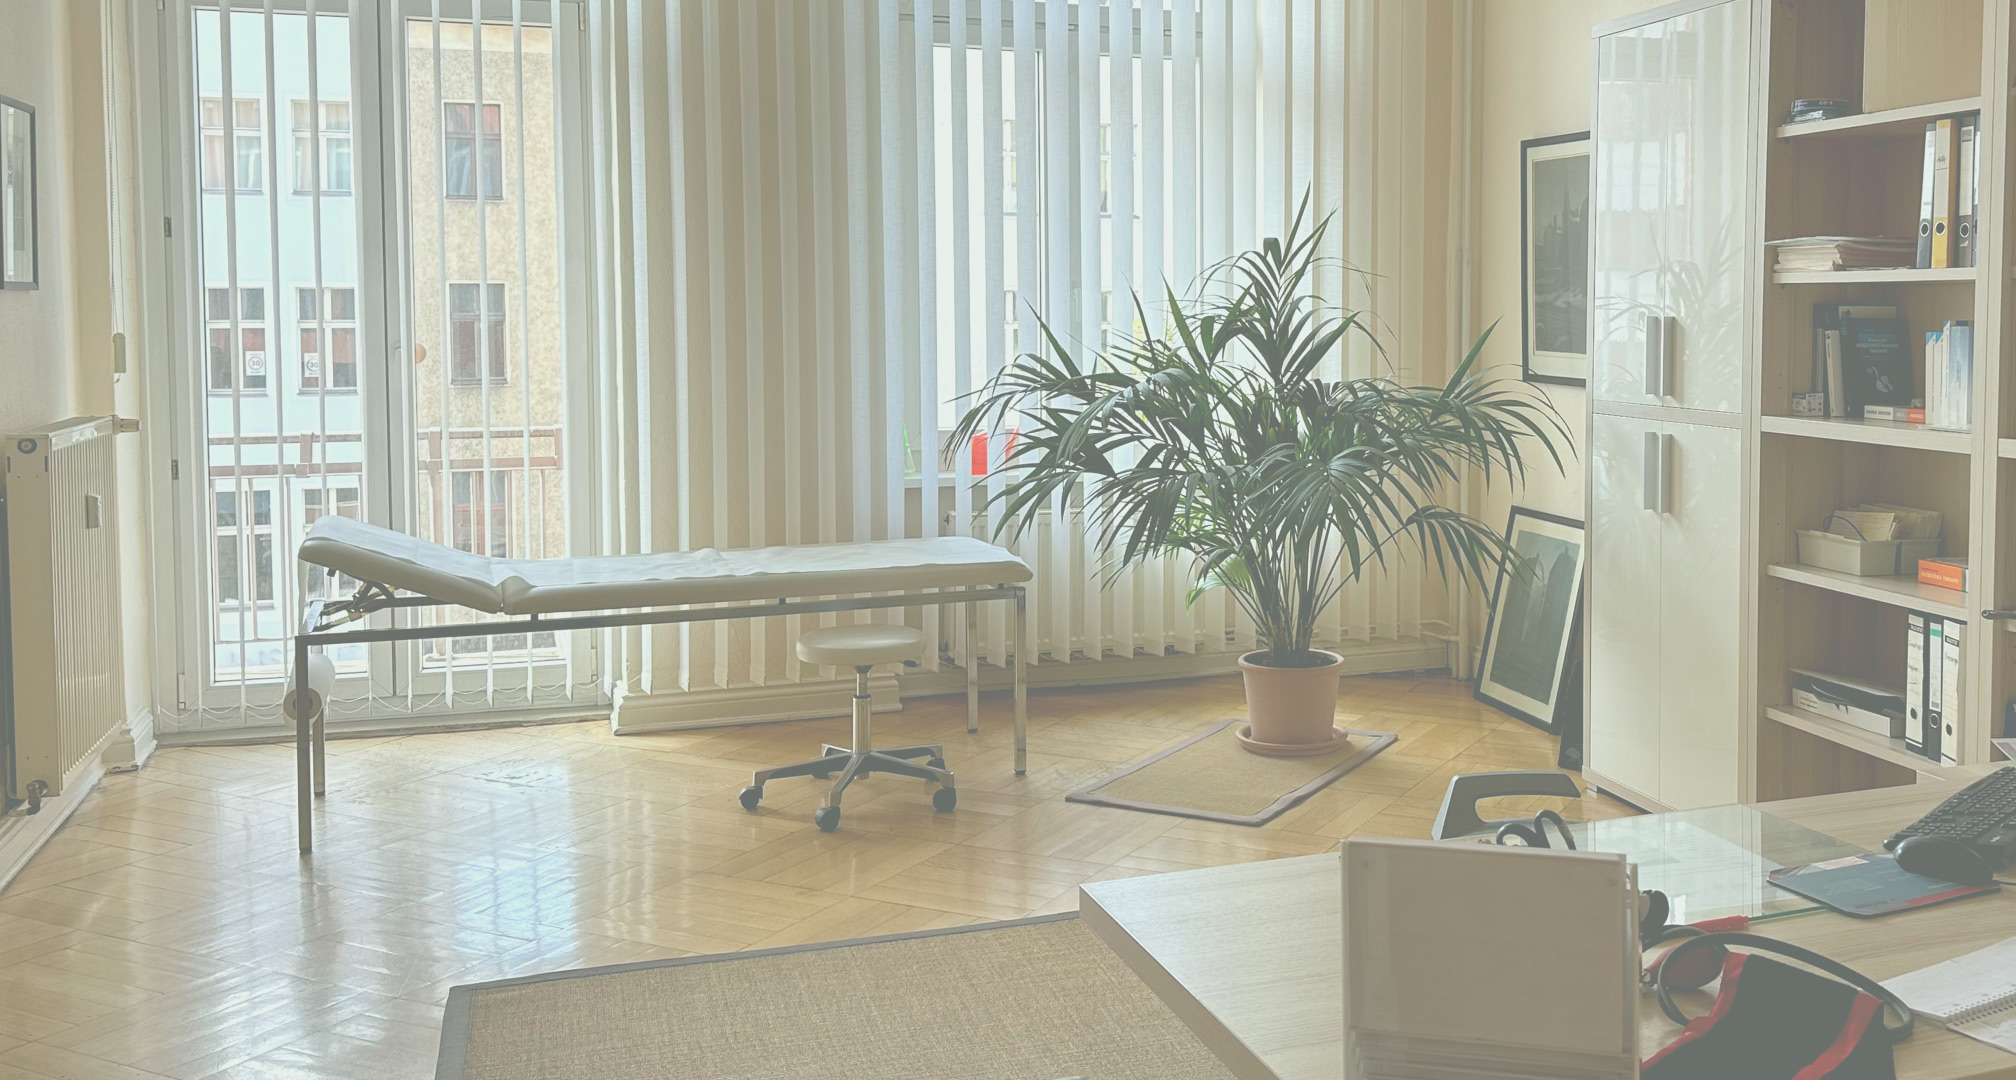
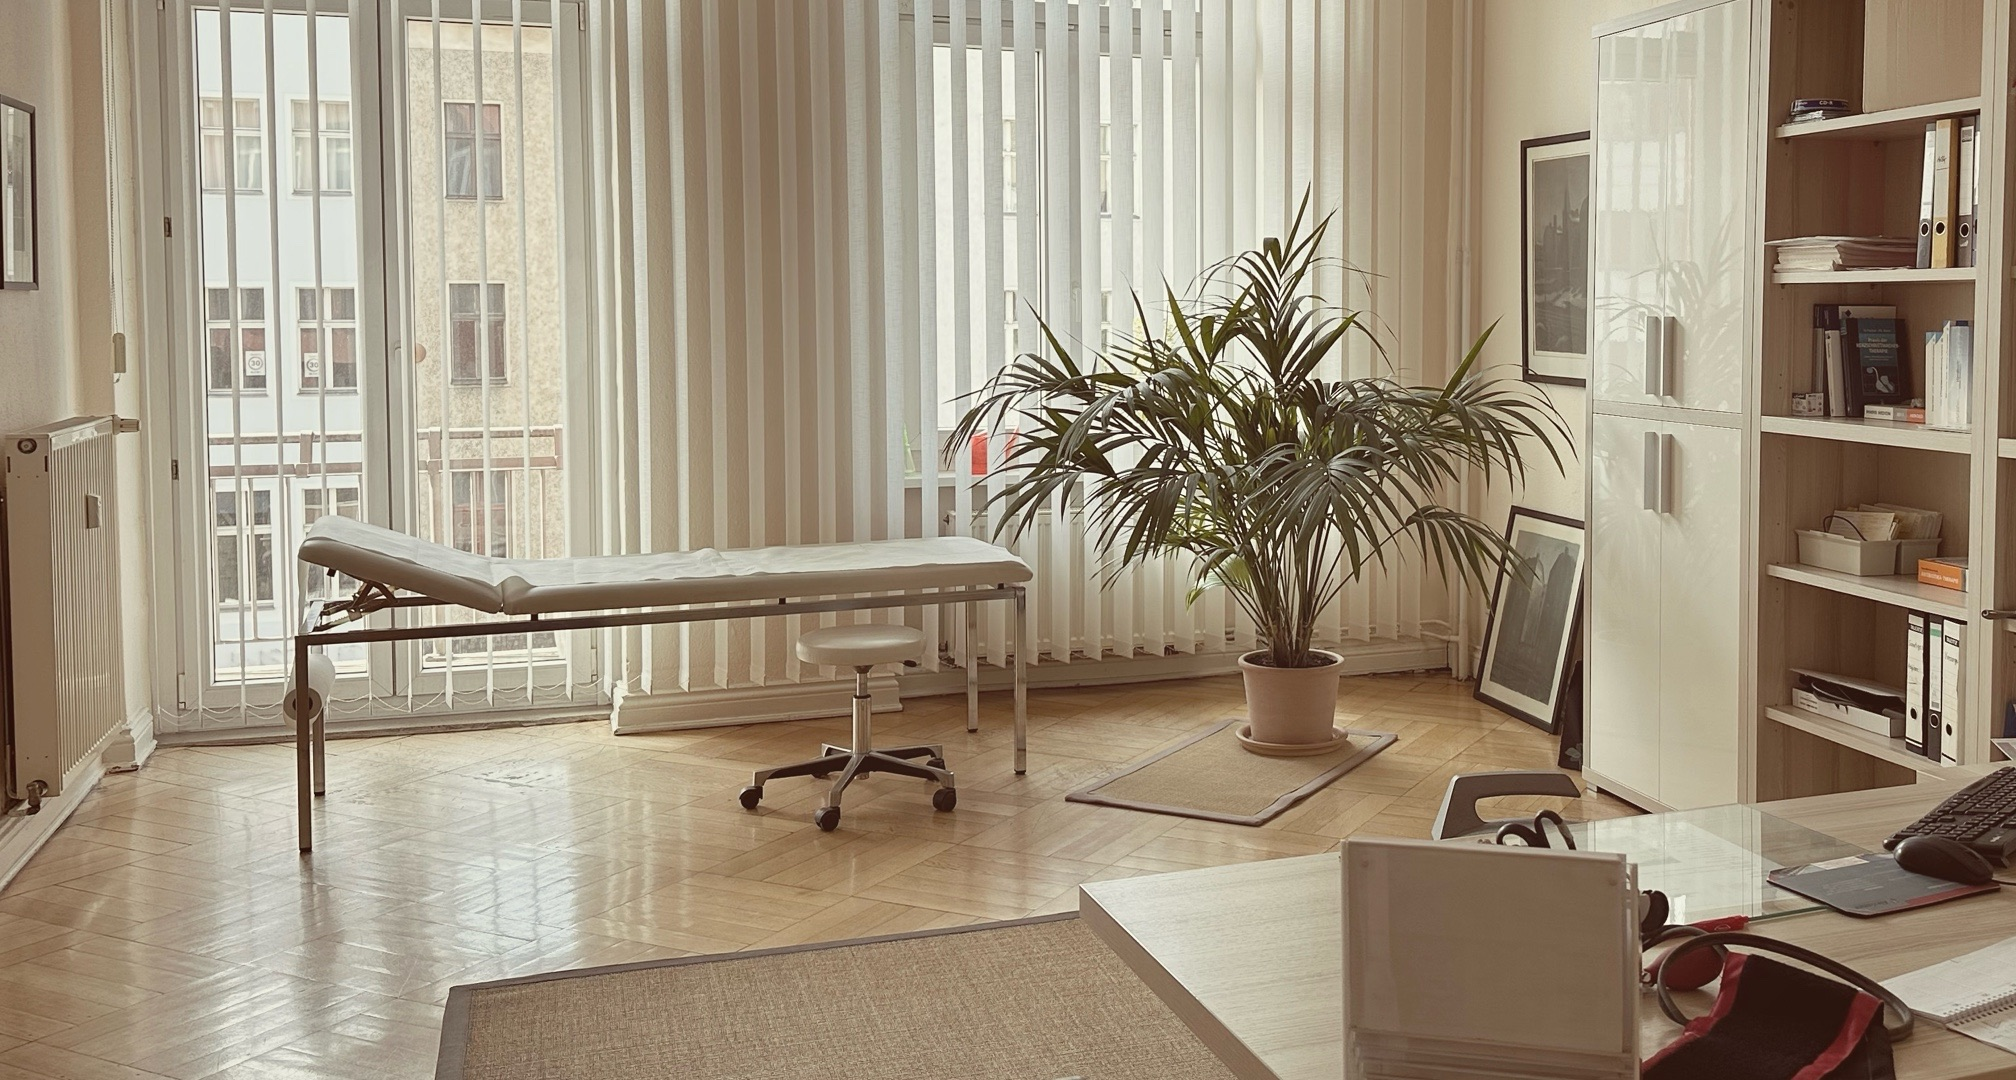
changes and stuff

diff --git a/app/Contact.tsx b/app/Contact.tsx
@@ -77,7 +77,8 @@ export default function ContactSection() {
                   <h3 className="text-2xl font-semibold font-serif leading-7 text-primary flex items-center">
                     <CalendarDaysIcon className="h-8 w-8 mr-2" aria-hidden="true" /> Terminvergabe
                   </h3>
-                  <div className="grid grid-cols-1 gap-6 sm:grid-cols-3 lg:col-span-3 lg:gap-8">
+                  <div className="grid grid-cols-1 gap-6 sm:grid-cols-2 lg:col-span-2 lg:gap-8">
+                  {/* <div className="grid grid-cols-1 gap-6 sm:grid-cols-3 lg:col-span-3 lg:gap-8">
                     <dl className="mt-3 space-y-1 text-md leading-6 text-primaryLighter">
                       <div className="flex flex-col justify-between h-full">
                         <address className="mt-3 space-y-1 text-md not-italic leading-6 text-primaryLighter">
@@ -87,7 +88,7 @@ export default function ContactSection() {
                           <ReusableButton url="#" title={"Doctolib"} />
                         </div>
                       </div>
-                    </dl>
+                    </dl> */}
                     <dl className="mt-3 space-y-1 text-md leading-6 text-primaryLighter">
                       <div className="flex flex-col justify-between h-full">
                         <address className="mt-3 space-y-1 text-md not-italic leading-6 text-primaryLighter">
@@ -107,7 +108,7 @@ export default function ContactSection() {
                           <p className='pt-4 font-bold'>030 / 40054273</p>
                         </address>
                         <div className='mt-8'>
-                          <ReusableButton url="tel:03040054273" title={"Telefonisch"} />
+                          <ReusableButton url="tel://03040054273" title={"Telefonisch"} />
                         </div>
                       </div>
                     </dl>
@@ -125,7 +126,7 @@ export default function ContactSection() {
                   <dl className="mt-3 space-y-1 text-md leading-6 text-gray-600">
                     <div>
                       <dd>
-                        <div className="grid grid-cols-1 grid-cols-3 text-primaryLighter">
+                        <div className="grid grid-cols-1 gap-8 grid-cols-3 text-primaryLighter">
                           <div className='col-span-1'>
                             <p>Montag</p>
                             <p>Dienstag</p>
@@ -134,7 +135,7 @@ export default function ContactSection() {
                             <p>Freitag</p>
                           </div>
                           <div className='col-span-2'>
-                            <p>08:00-12:00 | 15:00-18:00</p>
+                            <p>8 - 12 | 15 - 18</p>
                             <p>08:30 - 14:30</p>
                             <p>08:30 - 14:30</p>
                             <p>12:00 - 17:00</p>
@@ -159,7 +160,7 @@ export default function ContactSection() {
                       </dd>
                       <dd>
                         <p className="text-md leading-6 text-primaryLighter">
-                          Fax: <a href="#" style={{ textDecoration: 'underline' }}>030 / 40054275</a>
+                          Fax: <a href="tel://03040054275" style={{ textDecoration: 'underline' }}>030 / 40054275</a>
                         </p>
                       </dd>
                       <dd>

diff --git a/app/schwerpunkte/SchwerpunkteSection.tsx b/app/schwerpunkte/SchwerpunkteSection.tsx
@@ -6,6 +6,7 @@ import { Dialog, Transition } from '@headlessui/react';
 import { XMarkIcon } from '@heroicons/react/24/outline'
 const { Panel: DialogPanel, Title: DialogTitle } = Dialog;
 
+import { ChevronRightIcon } from '@heroicons/react/20/solid'; // Import the ChevronRightIcon component
 
 
 export default function Example() {
@@ -59,26 +60,26 @@ export default function Example() {
           </p>
         </div>
 
-        <ul role="list" className=" mt-8 space-y-4 overflow-visible">
-          {schwerpunktes.map((schwerpunkte) => (
-            <li
-              key={schwerpunkte.id}
-              className="relative flex flex-col gap-y-8 px-4 py-5 rounded-xl bg-lightBeige bg-opacity-30 hover:bg-lightBeige sm:px-6 lg:px-8"
-            >
-              <a href={schwerpunkte.url} onClick={(e) => {
-              }}>
-                <div className="flex justify-between">
-                  <p className="text-2xl font-medium font-serif leading-6 text-primary">
-                    {schwerpunkte.name}
-                  </p>
-                </div>
-                <div className="flex flex-col">
-                  <p className="text-md leading-6 text-primaryLighter break-words">{schwerpunkte.description}</p>
-                </div>
-              </a>
-            </li>
-          ))}
-        </ul>
+        <ul role="list" className="mt-8 space-y-4 overflow-visible">
+  {schwerpunktes.map((schwerpunkte) => (
+    <li
+      key={schwerpunkte.id}
+      className="relative flex items-center gap-4 px-4 py-5 rounded-xl bg-lightBeige bg-opacity-30 hover:bg-lightBeige sm:px-6 lg:px-8"
+    >
+      <a href={schwerpunkte.url} onClick={(e) => {}} className="flex justify-between items-center w-full">
+        <div className="flex flex-col w-full">
+          <p className="text-2xl font-medium font-serif leading-6 text-primary">
+            {schwerpunkte.name}
+          </p>
+          <p className="text-md pt-2 leading-6 pr-8 text-primaryLighter break-words">{schwerpunkte.description}</p>
+        </div>
+        <div className="flex items-center">
+          <ChevronRightIcon className="h-6 w-6 text-primary" /> {/* Add the ChevronRightIcon */}
+        </div>
+      </a>
+    </li>
+  ))}
+</ul>
       </div>
     </div>
   )

diff --git a/app/ClinicSection.tsx b/app/ClinicSection.tsx
@@ -20,19 +20,19 @@ export default function ClinicSection(params: { title: string, description1: str
               </p>
             </div>
           </div>
-          <div className="flex items-start justify-end lg:order-first">
-            <div className='flex-col'>
+          <div className="flex items-start justify-center lg:justify-end lg:order-first">
+            <div className='flex flex-col items-center lg:items-start'>
               <Image
                 src="/images/clinic/clinic-1.jpeg"
                 alt="Product screenshot"
-                className="relative w-[48rem] mb-16 max-w-none rounded-xl shadow-xl sm:w-[57rem]"
+                className="relative sm:w-[48rem] lg:max-w-none mb-8 lg:mb-16 rounded-xl shadow-xl"
                 width={1432}
                 height={1442}
               />
               <Image
                 src="/images/clinic/clinic-2.jpeg"
                 alt="Your second image description"
-                className="w-[48rem] max-w-none rounded-xl shadow-xl sm:w-[57rem]"
+                className="relative sm:w-[48rem] lg:max-w-none mb-8 lg:mb-16 rounded-xl shadow-xl"
                 width={1432}
                 height={1442}
               />

diff --git a/app/HeroSection.tsx b/app/HeroSection.tsx
@@ -71,11 +71,11 @@ export default function HeroSection() {
     <div className="relative isolate overflow-hidden pt-14 bg-fixed bg-cover" style={{ backgroundImage: 'url("/images/clinic/clinic-new.jpeg")', position: 'relative' }}>
     <div className="mx-auto max-w-4xl py-32 sm:py-48 lg:py-56 relative">
       <div className="text-center drop-shadow-xl relative z-10">
-        <h1 className="text-5xl font-regular drop-shadow-md tracking-tight font-serif text-primary sm:text-6xl">
+        <h1 className="text-5xl font-regular text-shadow-xl shadow-black tracking-tight font-serif text-white sm:text-6xl">
           PRAXIS JONA
         </h1>
-        <h2 className="mt-6 text-2xl sm:text-3xl drop-shadow-md font-medium leading-8 text-primary">
-          Ganzheitliche Betreuung für ein gesundes Leben – Bei uns bist Du mehr als nur ein weiterer Patient
+        <h2 className="mt-6 text-2xl px-8 sm:text-3xl text-shadow-xl shadow-black font-medium leading-8 text-white">
+          Ganzheitliche Betreuung für ein gesundes Leben - Bei uns bist Du mehr als nur ein weiterer Patient
         </h2>
       </div>
     </div>

diff --git a/tailwind.config.js b/tailwind.config.js
@@ -1,5 +1,6 @@
 /** @type {import('tailwindcss').Config} */
 const defaultTheme = require('tailwindcss/defaultTheme')
+const plugin = require('tailwindcss/plugin')
 
 module.exports = {
   content: [
@@ -33,10 +34,25 @@ module.exports = {
         bgColor1: "#bfc6d0",
       }
     },
-
+    textShadow: {
+      sm: '1px 1px 2px var(--tw-shadow-color)',
+      DEFAULT: '2px 2px 4px var(--tw-shadow-color)',
+      lg: '4px 4px 8px var(--tw-shadow-color)',
+      xl: '4px 4px 16px var(--tw-shadow-color)',
+    }
   },
   plugins: [
     require('@tailwindcss/forms'),
     require('@tailwindcss/typography'),
+    plugin(function ({ matchUtilities, theme }) {
+      matchUtilities(
+        {
+          'text-shadow': (value) => ({
+            textShadow: value,
+          }),
+        },
+        { values: theme('textShadow') }
+      )
+    })
   ]
 }

diff --git a/app/QuoteSection.tsx b/app/QuoteSection.tsx
@@ -21,7 +21,7 @@ export default function QuoteSection(params: {quote: string}) {
                 height={100}
               />
               <div className="mt-4 flex items-center justify-center space-x-3 text-base">
-                <div className="font-semibold text-primary">Jonida Gjolli</div>
+                <div className="font-semibold text-xl font-serif text-primary">Jonida Gjolli</div>
               </div>
               <div className="flex items-center justify-center space-x-3 text-base">
                 <div className="font-regular text-primaryLighter">Fachärztin für Innere Medizin</div>
